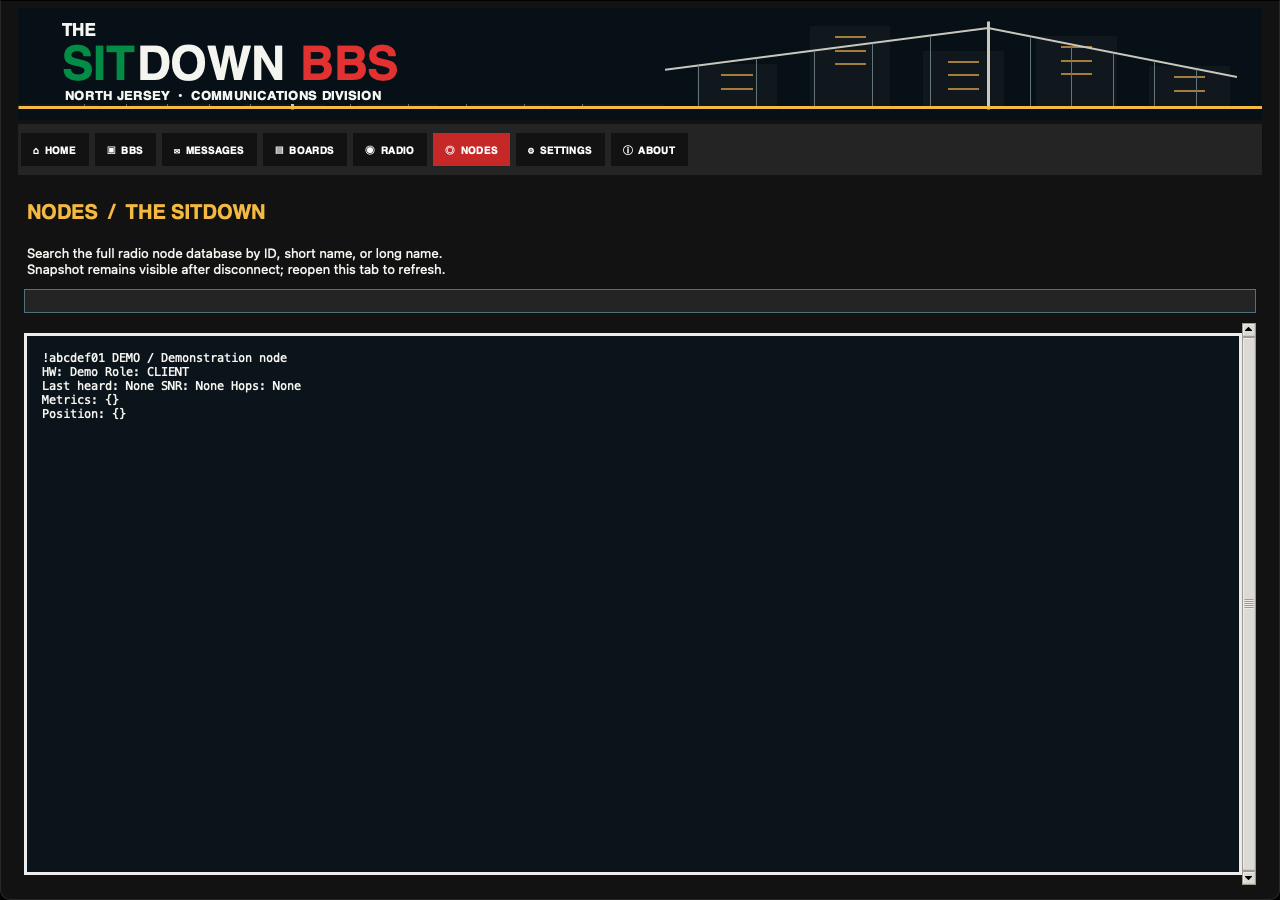
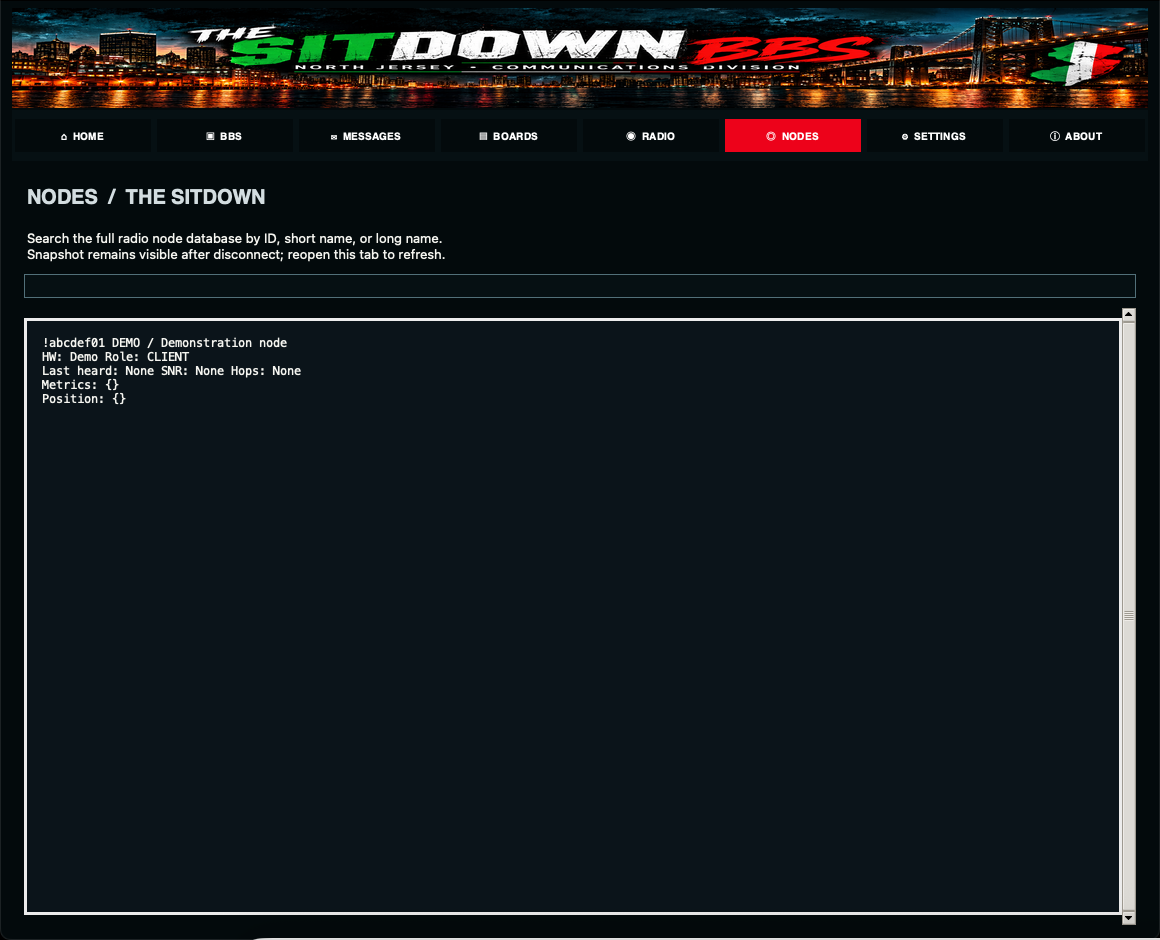
Refresh README with reviewed reference-style Mac screenshots

Changed region(s): [[0.0, 0.0, 1.0, 1.0]]

diff --git a/README.md b/README.md
@@ -3,6 +3,10 @@
 
 ## Jersey desktop and operator desks
 
+The dashboard uses the reference-style nighttime waterfront banner, distressed
+Jersey lettering, matching Dock icon, dark teal panels, red controls, and green
+console text. The artwork is bundled locally for offline use.
+
 The dashboard now has working tab pages for BBS utilities, local mail and boards,
 radio status, full node lookup, settings, and About. Admin announcements and an
 optional startup broadcast use the existing radio connection. Weather works with
@@ -13,7 +17,7 @@ Read the [configuration and command guide](docs/JERSEY_DESK.md) and
 opt-in services, then desktop integration. Mac builds are test artifacts until
 validated with a physical radio on an Intel Mac.
 
-![Jersey app icon](docs/images/app-icon.png)
+<img src="docs/images/app-icon.png" alt="Reference-style Jersey app icon" width="180">
 
 
 # 🤌 THE SITDOWN BBS
